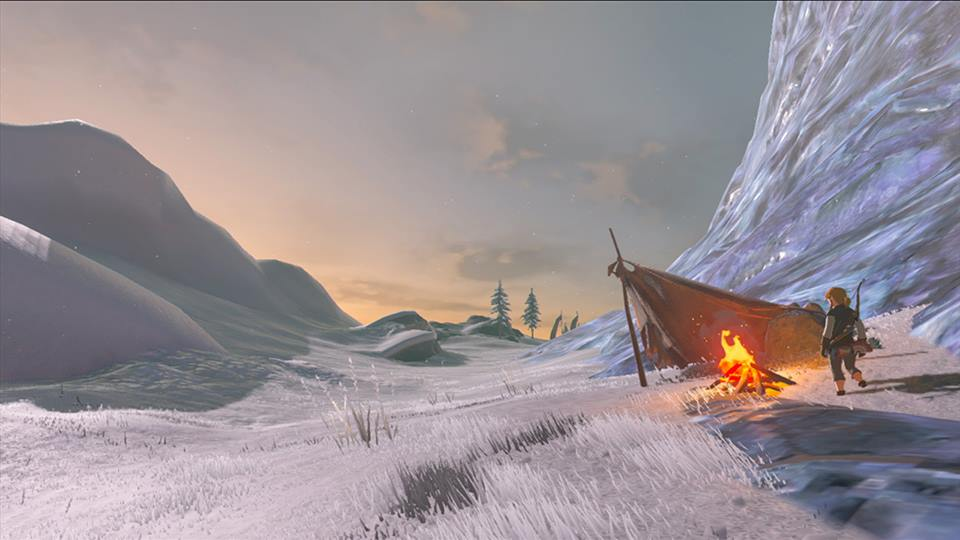
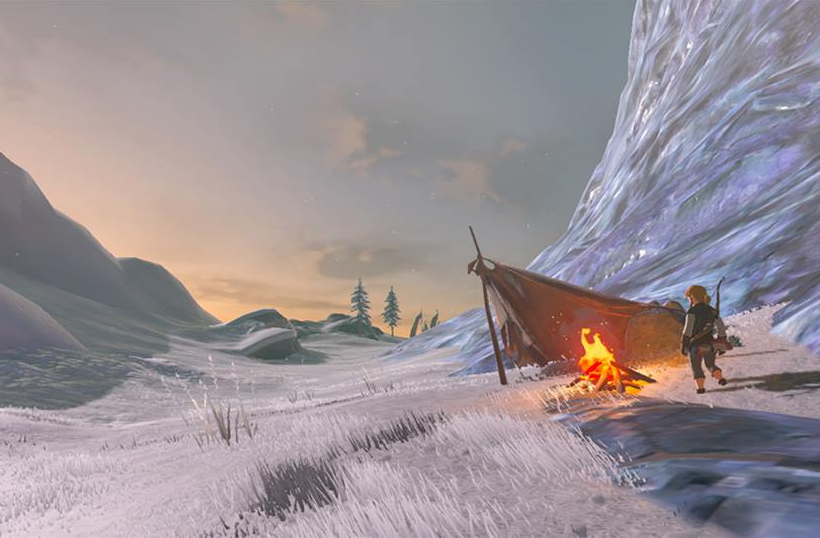
Resize inspiration tile image

diff --git a/app/assets/stylesheets/body/tiles.scss b/app/assets/stylesheets/body/tiles.scss
@@ -74,7 +74,7 @@
   height: 200px;
   /*border: 1px solid blue;*/
   background-image: image_url('camp.png');
-  background-size: 120%;
+  background-size: 110%;
   background-repeat: no-repeat;
   margin: 15px;
 }
